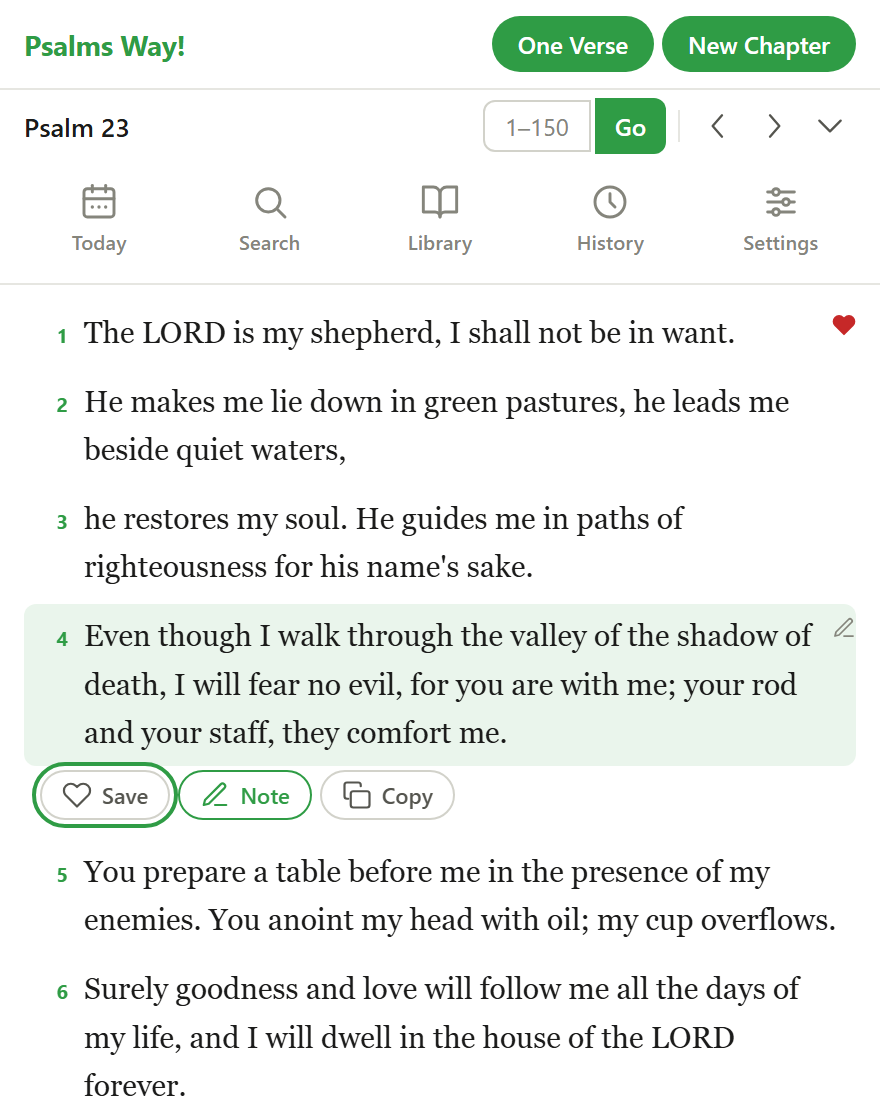
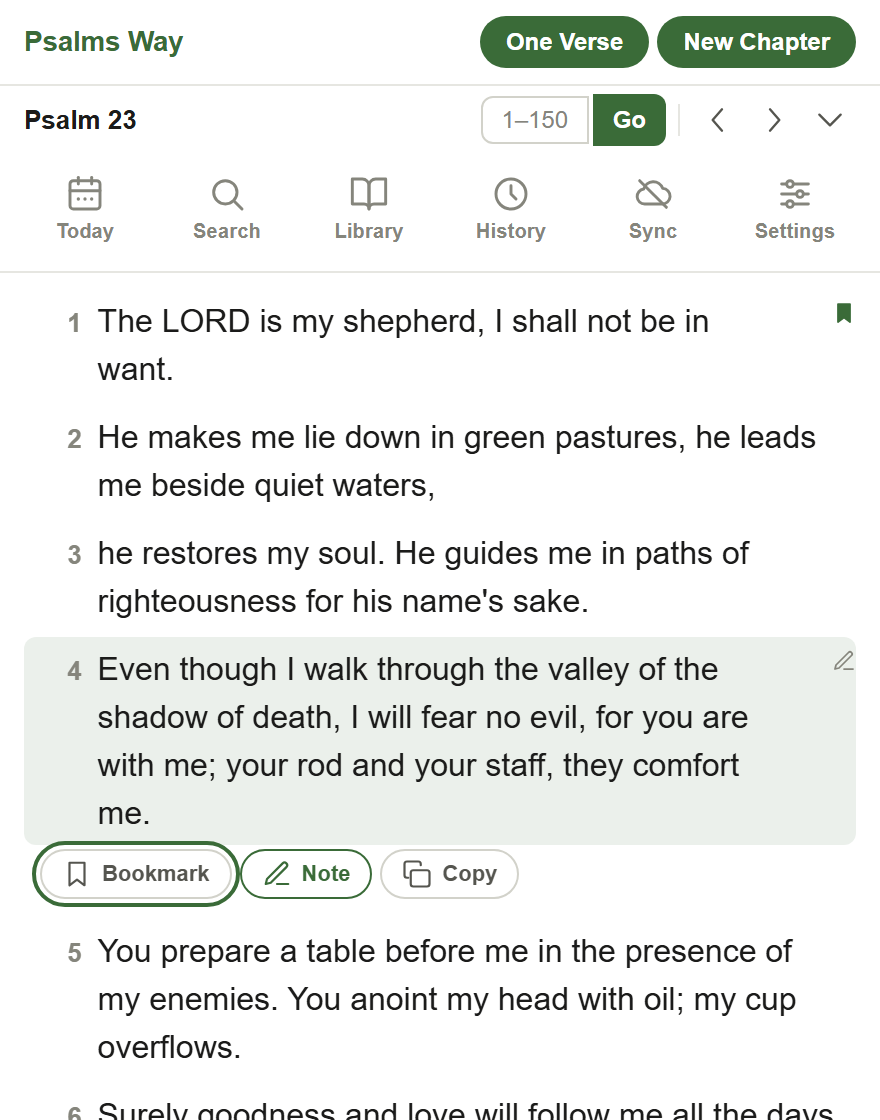
style: keep verse text clear of the bookmark and note markers; refresh store screenshots
Arial runs wider than Georgia, so a long line ran under the markers. Rows with a marker now reserve room for it. The ten store screenshots are regenerated from this version (scripts/screenshots.js).

diff --git a/style.css b/style.css
@@ -531,6 +531,11 @@ fieldset {
   color: var(--text);
 }
 
+/* Keep the text clear of the bookmark and note markers in the top-right corner. */
+.verse:has(.verse-marker) .verse-body {
+  padding-right: 36px;
+}
+
 .verse-body:hover {
   background: var(--bg-hover);
 }
